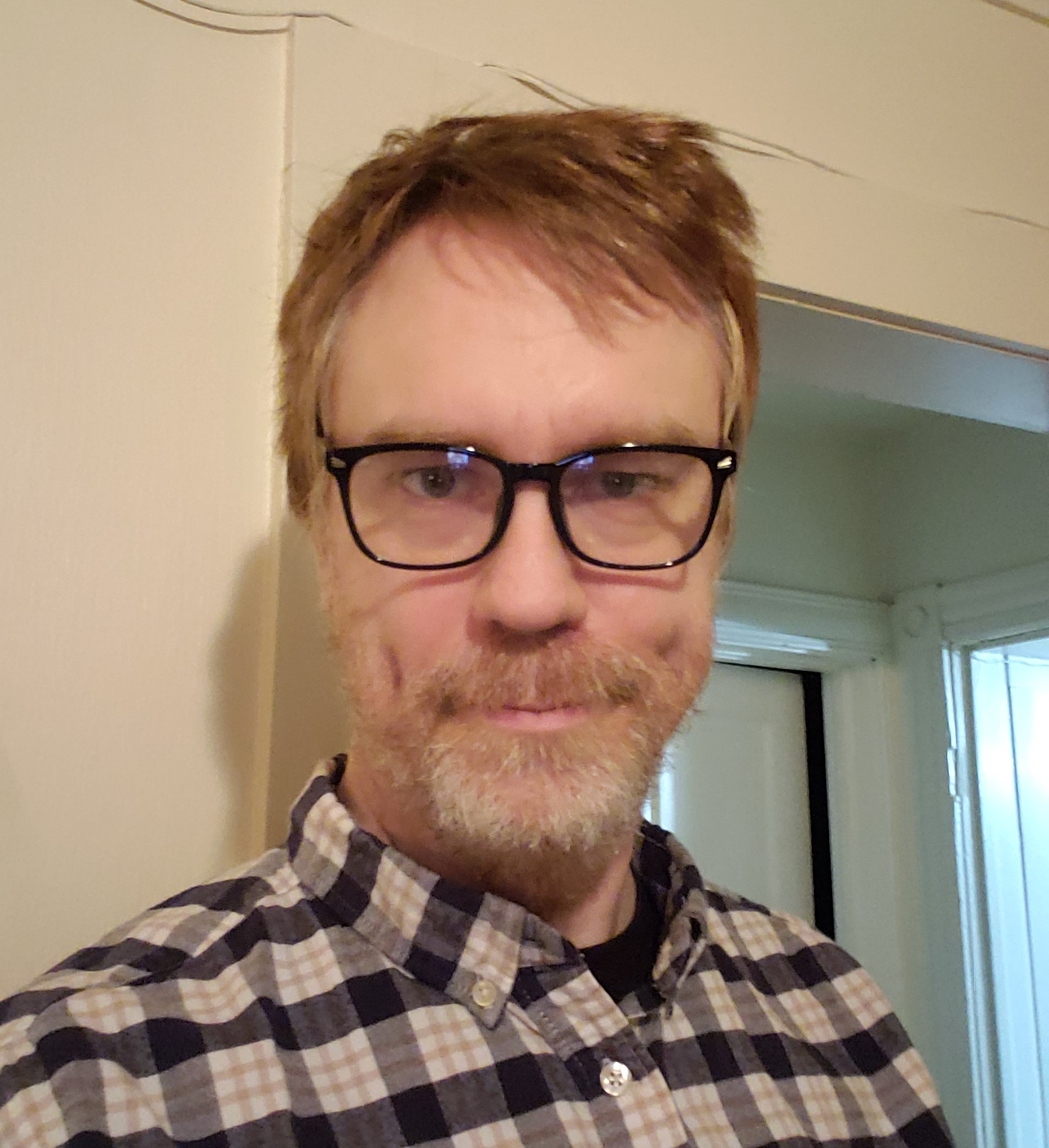
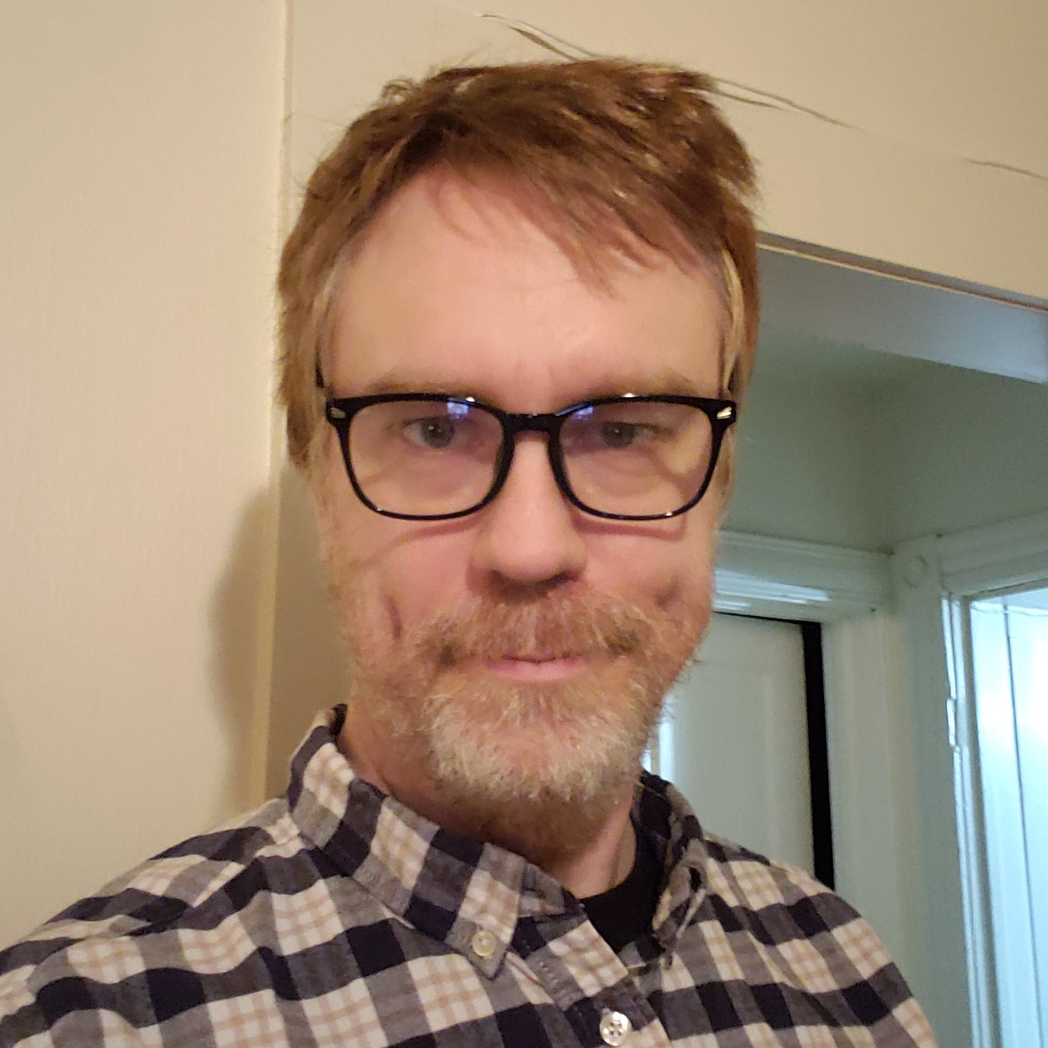
improved responsiveness

diff --git a/assets/css/style.css b/assets/css/style.css
@@ -17,6 +17,7 @@ header {
     display: flex;
     justify-content: space-between;
     align-items: center;
+    flex-wrap: wrap;
     }
 
 header h1 {
@@ -58,7 +59,9 @@ header nav ul li a {
   }
 
   .hero img {
-      width: 30%;
+      width: 400px;
+      height: 400px;
+      align-self: center;
   }
 
   .hero h2 {
@@ -69,6 +72,7 @@ header nav ul li a {
     font-family: garamond, 'Times New Roman', Times, serif;
     font-style: italic;
     font-weight: lighter;
+    align-self: flex-end;
   }
 
   /* About Styles */
@@ -77,6 +81,7 @@ header nav ul li a {
     color:ghostwhite;
     background-color: #2E44C8;
     display: flex;
+    flex-wrap: wrap;
 }
 
 .about h2 {
@@ -95,6 +100,7 @@ header nav ul li a {
     background-color: #7C27C2;
     display: flex;
     justify-content: space-between;
+    flex-wrap: wrap;
 }
 
 .work h2 {
@@ -149,6 +155,7 @@ header nav ul li a {
 /* Contact Styles */
 .contact {
     padding: 20px;
+    flex-wrap: wrap;
     color:black;
     background-color: #CA09BC;
     display: flex;

diff --git a/README.md b/README.md
@@ -1,0 +1,11 @@
+# Chris Bomm's Web Development Portfolio
+
+## Purpose
+Construct a professional and responsive portfolio.
+
+## Built With
+* HTML
+* CSS
+
+## Website
+https://robomojo77.github.io/pro-portfolio/
